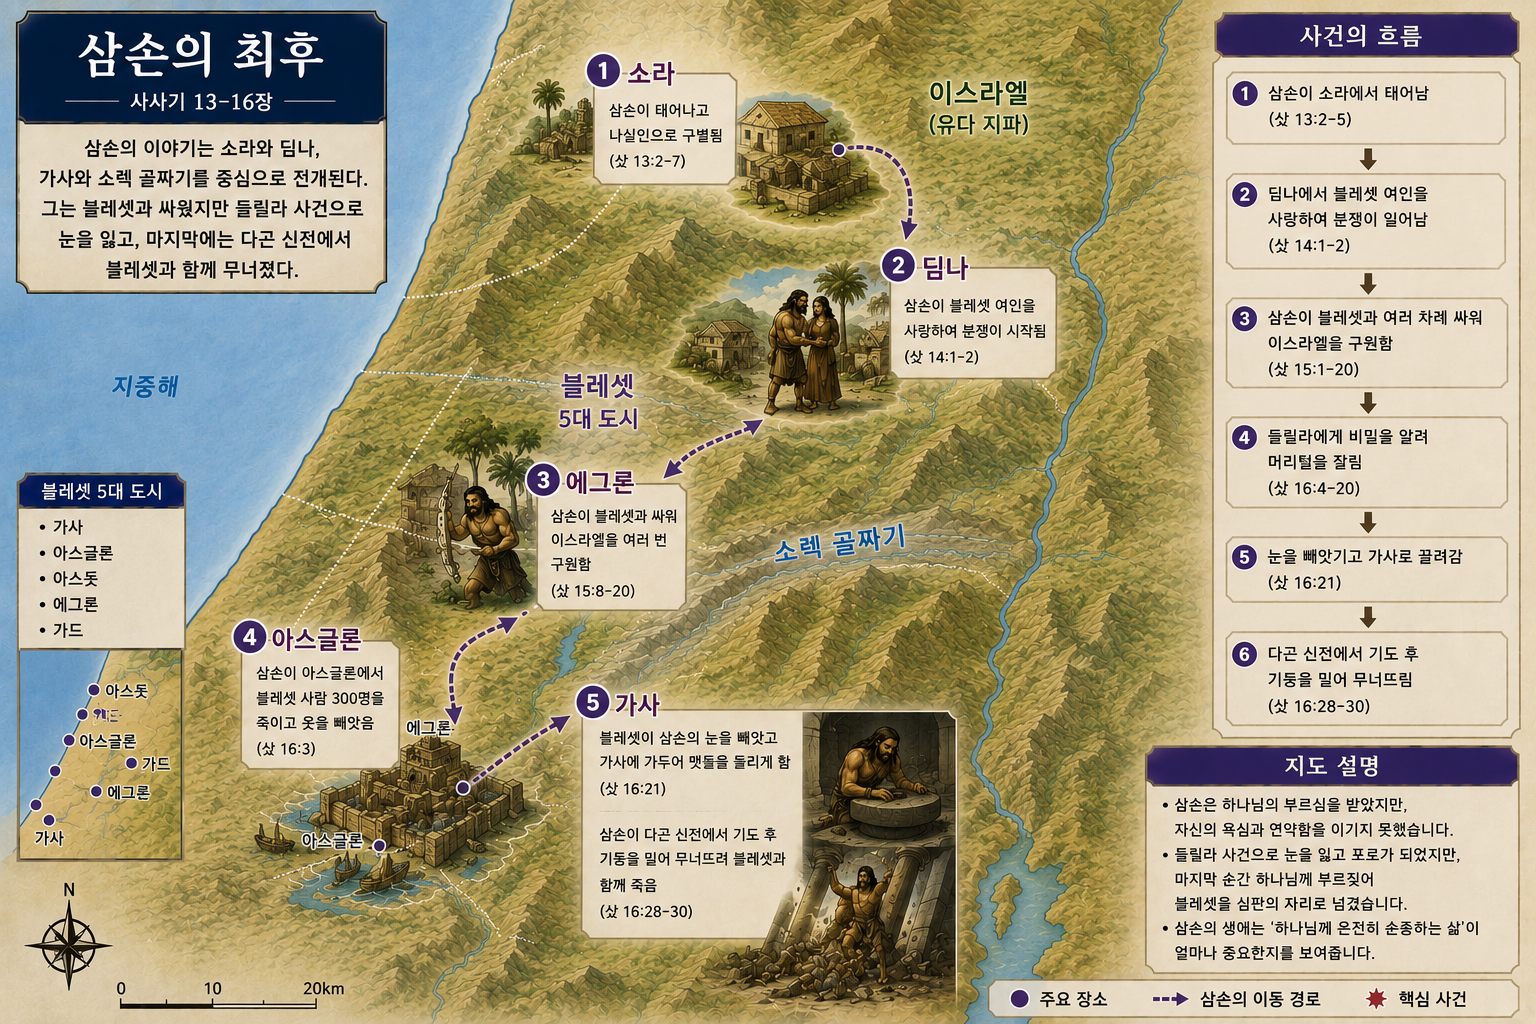
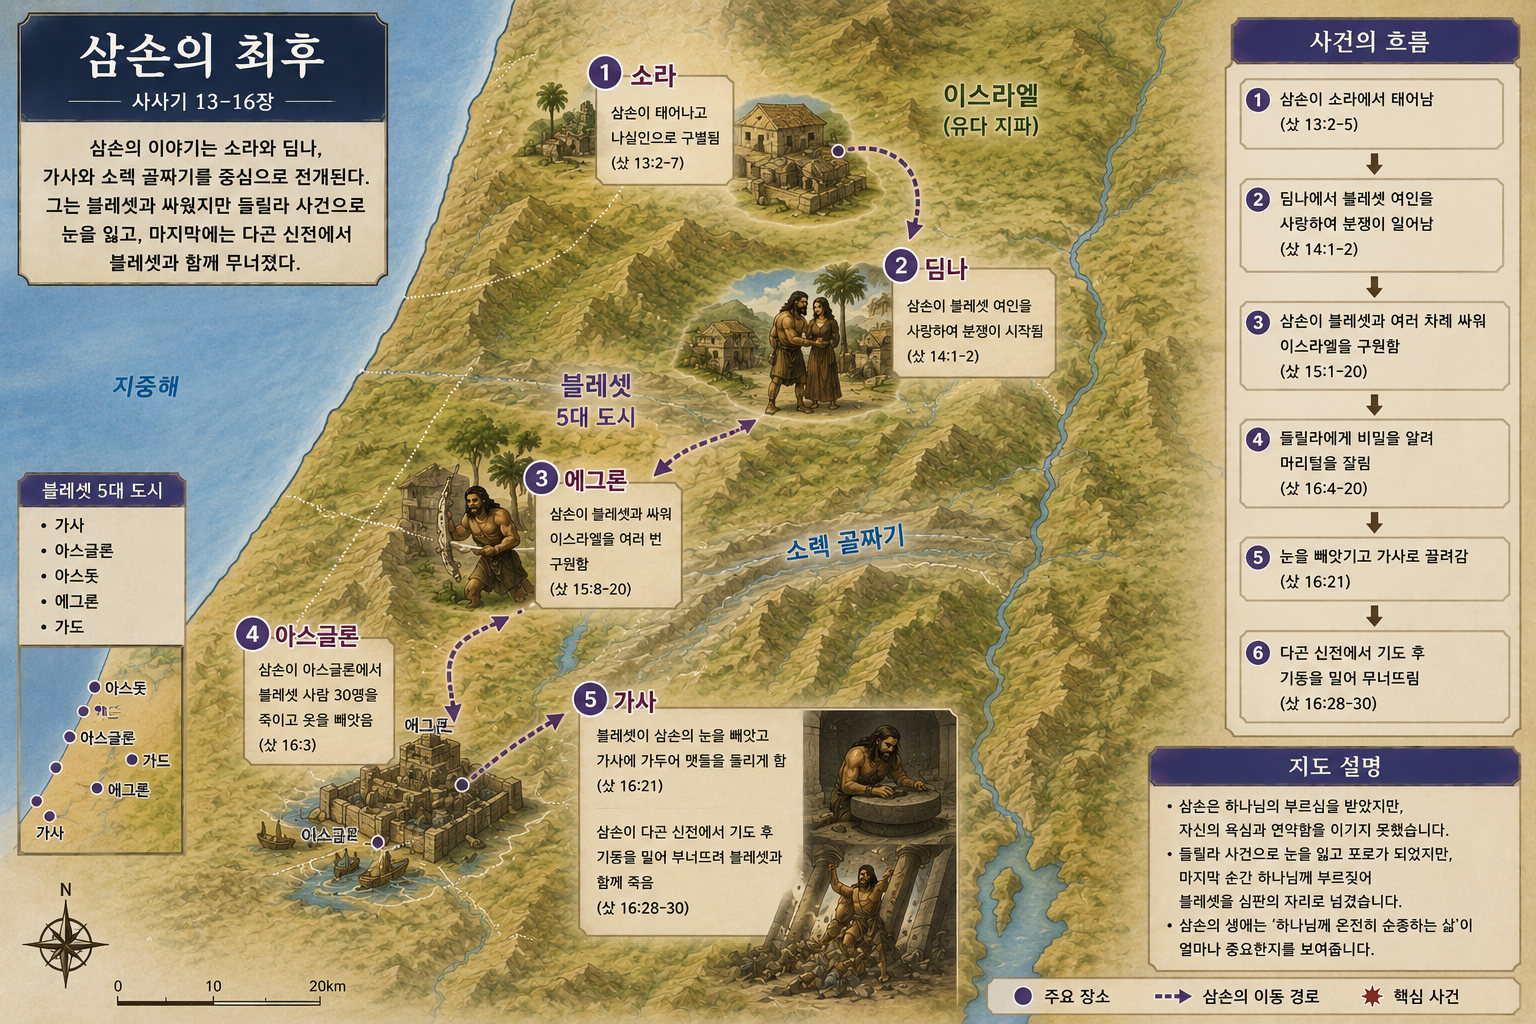
Add files via upload

diff --git a/style.css b/style.css
@@ -20,9 +20,9 @@ a { color: inherit; text-decoration: none; font-family: inherit; }
 .canvas { position: absolute; left: 0; top: 0; width: 932px; height: 1688px; transform-origin: 0 0; will-change: transform; user-select: none; }
 .matrix-bg { position: absolute; inset: 0; width: 100%; height: 100%; object-fit: contain; display: block; pointer-events: none; user-select: none; }
 
-.matrix-title { display:block; position: absolute; left: 19%; right: 4%; top: 18px; z-index: 13; text-align: center; pointer-events: none; padding: 12px 10px 13px; border-radius: 20px; background: linear-gradient(180deg, rgba(8,14,18,.64), rgba(8,14,18,.32)); border: 1px solid rgba(255,226,157,.30); box-shadow: 0 8px 26px rgba(0,0,0,.28), inset 0 1px 0 rgba(255,255,255,.08); text-shadow: 0 4px 0 rgba(0,0,0,.44), 0 0 20px rgba(230,154,33,.25); }
-.matrix-title h1 { margin: 0; font-size: 54px; line-height: 1; letter-spacing: -0.07em; color: var(--gold-3); font-weight: 950; }
-.matrix-title p { margin: 9px 0 0; font-size: 24px; line-height: 1.12; color: #fff0c5; font-weight: 900; letter-spacing: -0.05em; }
+.matrix-title { display:block; position: absolute; left: 16%; right: 3%; top: 10px; z-index: 13; text-align: center; pointer-events: none; padding: 15px 12px 16px; border-radius: 22px; background: linear-gradient(180deg, rgba(8,14,18,.66), rgba(8,14,18,.34)); border: 1px solid rgba(255,226,157,.34); box-shadow: 0 8px 26px rgba(0,0,0,.28), inset 0 1px 0 rgba(255,255,255,.08); text-shadow: 0 4px 0 rgba(0,0,0,.44), 0 0 20px rgba(230,154,33,.25); }
+.matrix-title h1 { margin: 0; font-size: 72px; line-height: .96; letter-spacing: -0.075em; color: var(--gold-3); font-weight: 950; }
+.matrix-title p { margin: 10px 0 0; font-size: 30px; line-height: 1.08; color: #fff0c5; font-weight: 900; letter-spacing: -0.055em; }
 
 
 .button-set { position: absolute; left: 10.7%; width: 55%; display: grid; grid-template-columns: 1fr 1fr 1fr; gap: 6px; z-index: 12; }